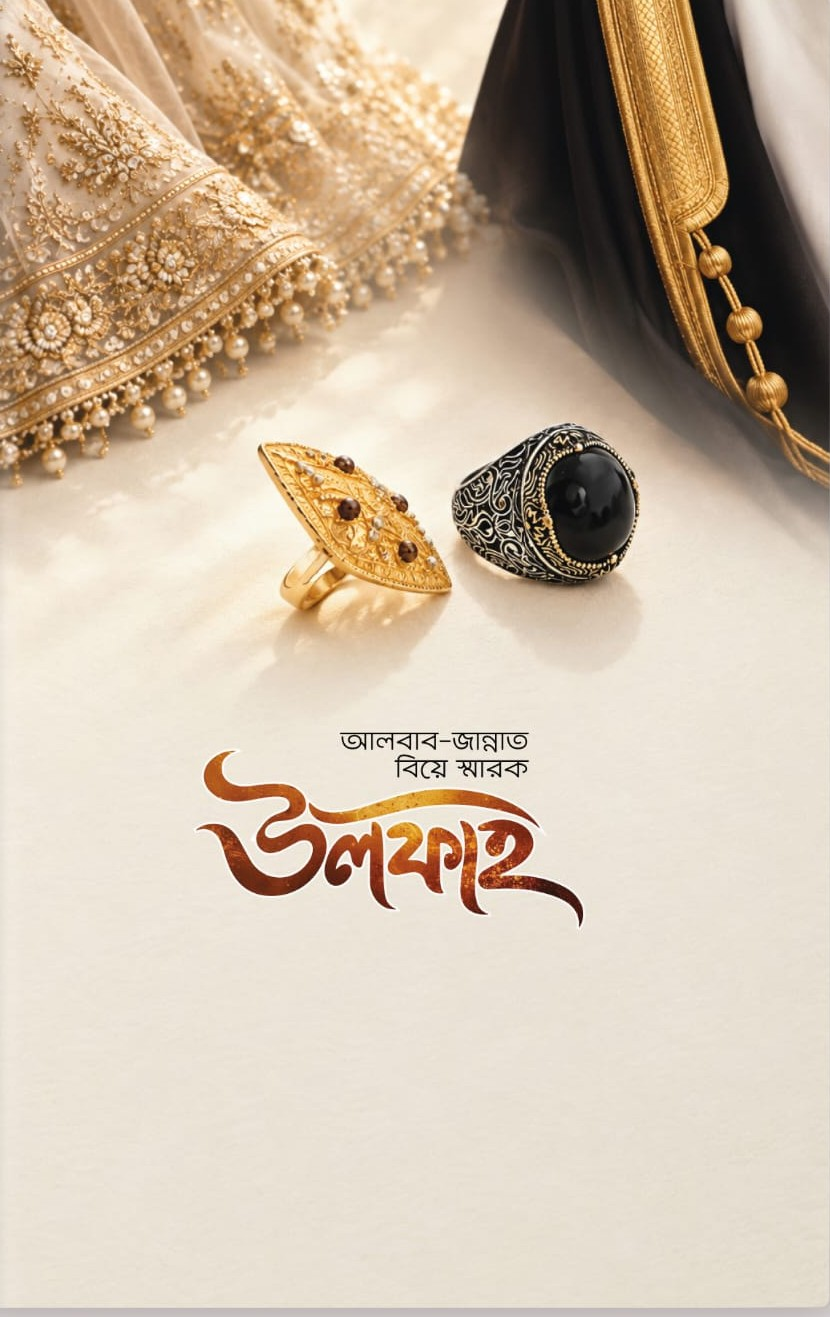
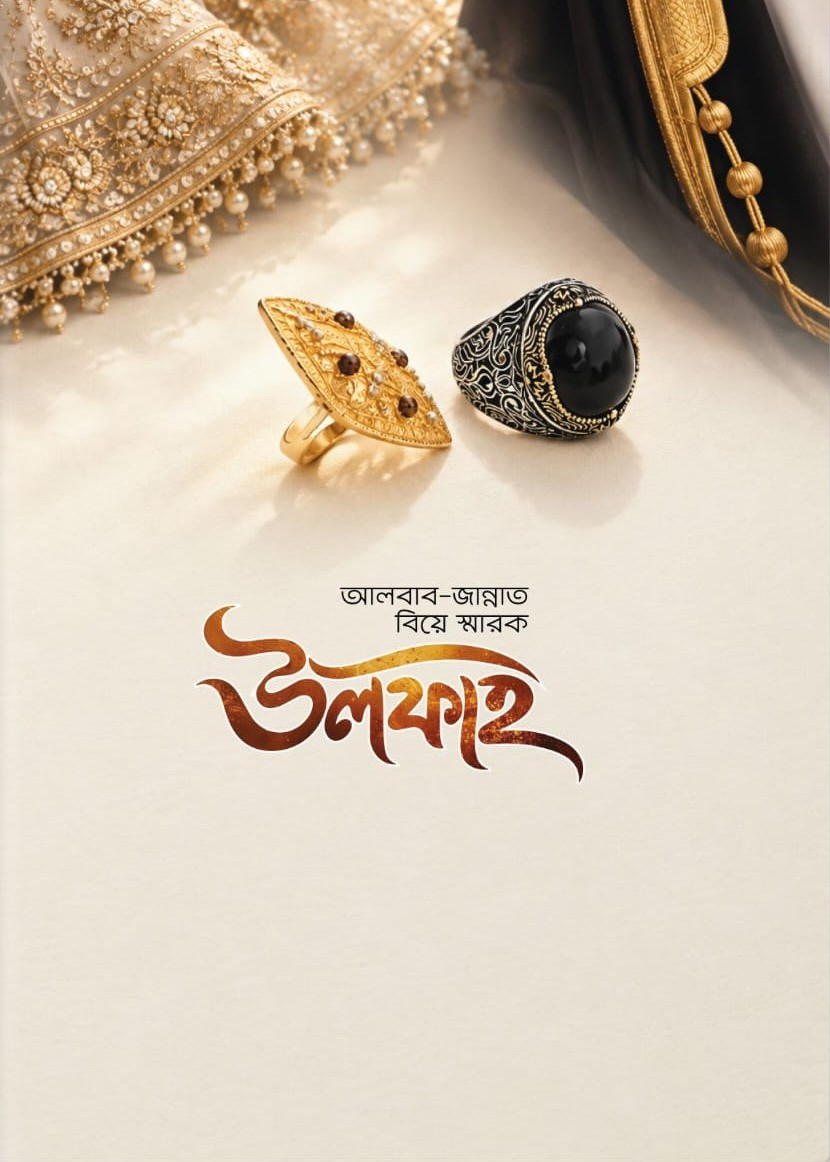
update hero section

diff --git a/src/components/CoupleProfile.jsx b/src/components/CoupleProfile.jsx
@@ -1,63 +1,90 @@
+
+
+
+
+
+
 import React from "react";
 
 function CoupleProfile() {
   return (
-    <div className="py-8 px-4 max-w-4xl mx-auto font-sans ">
-      {/* Title Section */}
-      {/* <div className="text-center mb-10 ">
-        <h2 className="text-2xl md:text-4xl font-serif text-[#8B1E41] font-bold mb-1">
-          Meet the Couple
-        </h2>
-        <div className="w-16  bg-pink-200 mx-auto rounded-full mb-3"></div>
-        <p className="text-gray-600 text-sm md:text-base italic px-4">
-          Two souls, one heart. We are thrilled to start this beautiful journey together.
-        </p>
-      </div> */}
+    <>
+      {/* 
+        সফট "Fade-In-Up" অ্যানিমেশনের স্টাইল 
+        এটি যুক্ত করার ফলে Tailwind config পরিবর্তন ছাড়াই অ্যানিমেশনটি কাজ করবে 
+      */}
+      <style>
+        {`
+          @keyframes fadeInUp {
+            from {
+              opacity: 0;
+              transform: translateY(50px);
+            }
+            to {
+              opacity: 1;
+              transform: translateY(0);
+            }
+          }
+          .animate-fade-in-up {
+            animation: fadeInUp 0.8s ease-out forwards;
+          }
+          .delay-100 { animation-delay: 0.2s; }
+          .delay-200 { animation-delay: 0.4s; }
+        `}
+      </style>
 
-      {/* Profiles Container - Flex Row for Mobile to show side-by-side */}
-      <div className="flex flex-row justify-center items-center gap-4 md:gap-12 bg-white p-6 md:p-10 rounded-[30px] shadow-[0_8px_30px_rgb(0,0,0,0.04)] border border-pink-50 relative">
-        {/* Groom Profile */}
-        <div className="flex flex-col items-center flex-1 w-1/2">
-          <div className="w-20 h-20 md:w-32 md:h-32 rounded-full border-2 border-white shadow-md overflow-hidden bg-[#e8f0fe] mb-3">
-            <img
-              src="https://api.dicebear.com/7.x/notionists/svg?seed=Felix&backgroundColor=e8f0fe"
-              alt="Groom"
-              className="w-full h-full object-cover"
-            />
+      {/* 
+        ওভারল্যাপিং: -mt-40 md:-mt-48 (নেগেটিভ মার্জিন) দিয়ে কার্ডটিকে হিরো সেকশনের ওপর ৭৫% তুলে দেওয়া হয়েছে 
+        এবং animate-fade-in-up ক্লাস দিয়ে ভেসে ওঠার অ্যানিমেশন দেওয়া হয়েছে 
+      */}
+      <div className="relative z-20 -mt-40 md:-mt-48 py-8 px-4 max-w-4xl mx-auto font-sans opacity-0 animate-fade-in-up">
+        
+        {/* Profiles Container - গ্লাসমরফিজম, Rounded [30px] এবং প্রিমিয়াম কাস্টম শ্যাডো */}
+        <div className="flex flex-row justify-center items-center gap-4 md:gap-12 bg-white/85 backdrop-blur-md p-6 md:p-10 rounded-[30px] shadow-[0_25px_50px_-12px_rgba(139,30,65,0.25)] border border-white/60 relative">
+          
+          {/* Groom Profile */}
+          <div className="flex flex-col items-center flex-1 w-1/2 opacity-0 animate-fade-in-up delay-100">
+            <div className="w-20 h-20 md:w-32 md:h-32 rounded-full border-2 border-white shadow-md overflow-hidden bg-[#e8f0fe] mb-3">
+              <img
+                src="https://api.dicebear.com/7.x/notionists/svg?seed=Felix&backgroundColor=e8f0fe"
+                alt="Groom"
+                className="w-full h-full object-cover"
+              />
+            </div>
+            <span className="text-[10px] md:text-xs uppercase tracking-wider text-[#8B1E41] font-bold mb-1">
+              The Groom
+            </span>
+            <h3 className="text-sm md:text-2xl font-serif text-gray-800 font-bold text-center">
+              Hafiz Mawlana Albab
+            </h3>
           </div>
-          <span className="text-[10px] md:text-xs uppercase tracking-wider text-[#8B1E41] font-bold mb-1">
-            The Groom
-          </span>
-          <h3 className="text-sm md:text-2xl font-serif text-gray-800 font-bold text-center">
-            Hafiz Mawlana Albab
-          </h3>
-        </div>
 
-        {/* The "&" symbol - Central Element */}
-        <div className="flex-shrink-0 z-10 px-2">
-          <div className="w-10 h-10 md:w-14 md:h-14 bg-pink-50 text-[#8B1E41] rounded-full flex items-center justify-center font-serif text-xl md:text-2xl shadow-sm border border-pink-100">
-            &
+          {/* The "&" symbol - Central Element */}
+          <div className="flex-shrink-0 z-10 px-2 opacity-0 animate-fade-in-up delay-200">
+            <div className="w-10 h-10 md:w-14 md:h-14 bg-pink-50/80 text-[#8B1E41] rounded-full flex items-center justify-center font-serif text-xl md:text-2xl shadow-sm border border-pink-100 backdrop-blur-sm">
+              &
+            </div>
           </div>
-        </div>
 
-        {/* Bride Profile */}
-        <div className="flex flex-col items-center flex-1 w-1/2">
-          <div className="w-20 h-20 md:w-32 md:h-32 rounded-full border-2 border-white shadow-md overflow-hidden bg-[#fce8e6] mb-3">
-            <img
-              src="https://api.dicebear.com/7.x/notionists/svg?seed=Aneka&backgroundColor=fce8e6"
-              alt="Bride"
-              className="w-full h-full object-cover"
-            />
+          {/* Bride Profile */}
+          <div className="flex flex-col items-center flex-1 w-1/2 opacity-0 animate-fade-in-up delay-100">
+            <div className="w-20 h-20 md:w-32 md:h-32 rounded-full border-2 border-white shadow-md overflow-hidden bg-[#fce8e6] mb-3">
+              <img
+                src="https://api.dicebear.com/7.x/notionists/svg?seed=Aneka&backgroundColor=fce8e6"
+                alt="Bride"
+                className="w-full h-full object-cover"
+              />
+            </div>
+            <span className="text-[10px] md:text-xs uppercase tracking-wider text-[#8B1E41] font-bold mb-1">
+              The Bride
+            </span>
+            <h3 className="text-sm md:text-2xl font-serif text-gray-800 font-bold text-center">
+              Aleema Nusaifa Jannat
+            </h3>
           </div>
-          <span className="text-[10px] md:text-xs uppercase tracking-wider text-[#8B1E41] font-bold mb-1">
-            The Bride
-          </span>
-          <h3 className="text-sm md:text-2xl font-serif text-gray-800 font-bold text-center">
-            Aleema Nusaifa Jannat
-          </h3>
         </div>
       </div>
-    </div>
+    </>
   );
 }
 

diff --git a/src/components/HeroSection.jsx b/src/components/HeroSection.jsx
@@ -1,23 +1,27 @@
+
+
+
+
+
 import React from 'react';
 
 const HeroSection = () => {
   return (
     <section 
-     
-      className="relative w-full h-dvh overflow-hidden bg-cover bg-center bg-no-repeat flex flex-col justify-end items-center pb-12"
-      
+      // h-dvh দিয়ে ফুলস্ক্রিন করা হয়েছে এবং rounded-b-[40px] দিয়ে নিচের দুই কর্নার রাউন্ড করা হয়েছে
+      className="relative w-full h-dvh overflow-hidden bg-cover bg-center bg-no-repeat rounded-b-[40px] md:rounded-b-[60px] shadow-sm"
       style={{ backgroundImage: "url('/cover.jpeg')" }} 
     >
-      
-      {/* niche jawar chinho) */}
-      <div className="z-10 animate-bounce bg-white/50 backdrop-blur-sm p-3 rounded-full shadow-lg cursor-pointer hover:bg-white/80 transition" onClick={() => window.scrollBy({ top: window.innerHeight, behavior: 'smooth' })}>
-        <svg className="w-6 h-6 text-rose-900" fill="none" stroke="currentColor" viewBox="0 0 24 24" xmlns="http://www.w3.org/2000/svg">
-          <path strokeLinecap="round" strokeLinejoin="round" strokeWidth={2} d="M19 14l-7 7m0 0l-7-7m7 7V3" />
-        </svg>
-      </div>
-      
+     
     </section>
   );
 };
 
 export default HeroSection;
+
+
+
+
+
+
+
